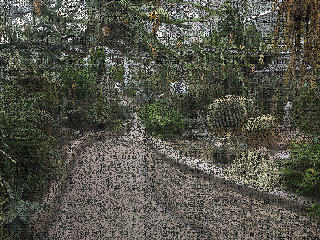
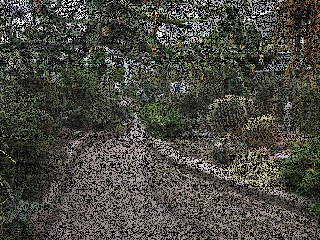
r100iter2000

Changed region(s): [[0.0, 0.0, 1.0, 1.0]]

diff --git a/image_completion2.m b/image_completion2.m
@@ -10,7 +10,7 @@ I2_corr( I2_corr==0 ) = 0.0001;
 i_index = Index(size(I2_corr,1));
 j_index = Index(size(I2_corr,2));
 k_index = Index(size(I2_corr,3));
-r_index = Index(10);
+r_index = Index(100);
 
 
 X = Tensor(i_index, j_index, k_index);
